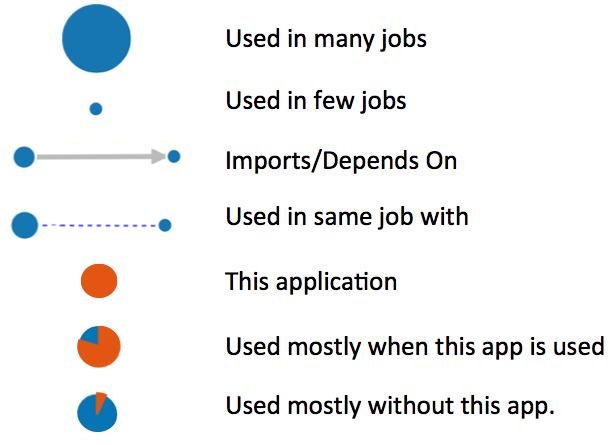
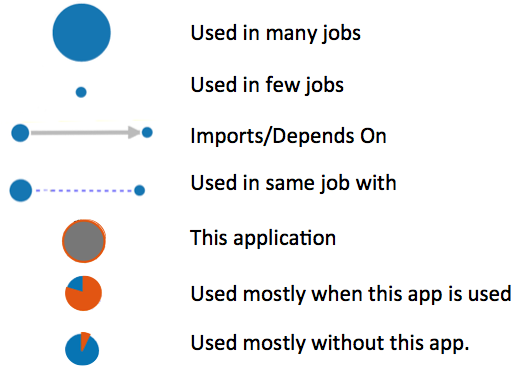
Tooltips, and marking focus node differently

diff --git a/www/SNM-web/snmweb/static/js/force-chart.js b/www/SNM-web/snmweb/static/js/force-chart.js
@@ -10,6 +10,7 @@ function vizForceChart(container, options) {
     }, options);
     var height = options.height;
     var width = options.width;
+    var focusid = "";
     var svg = d3.select("#chart svg")
         .attr("width", width)
         .attr("height", height);
@@ -69,6 +70,7 @@ function vizForceChart(container, options) {
     }
     function loadData(id) {snmapi.getStat(options.stat_id, {"id": id},
         function(result) {
+            focusid = id;
             var data = result.data,
                 node, link;
             var max_uses = 0;
@@ -144,14 +146,22 @@ function vizForceChart(container, options) {
                   d.radius = big*(Math.sqrt(d.uses)/sqrt_max_uses)+small;
                   return d.radius;
              });
-        var allPies = allGNodes.append("path")
+
+        allGNodes
+             .filter(function(d) { return d.id == focusid; })
+             .append("circle").attr("x",0).attr("y",0).attr("r",function(d) { return d.radius})
+             .classed("focusnode-color", true);
+
+        var allPies = allGNodes
+             .filter(function(d) { return d.id != focusid; })
+             .append("path")
              .attr("d", function (d) { 
                          var angle = 6.28 * d.focus_co_uses / d.uses;
                          return d3.svg.arc()
                           .outerRadius(d.radius).innerRadius(0)
                           .startAngle(0.0)
                           .endAngle(angle)(); })
-             .attr("class", "co-use-color");
+             .attr("class", function(d) { if (d.id == focusid) { return "focusnode-color"; } else { return "co-use-color"}});
 
 
         var highlightMe = allGNodes.append("circle")

diff --git a/www/SNM-web/snmweb/static/js/bar-chart.js b/www/SNM-web/snmweb/static/js/bar-chart.js
@@ -34,12 +34,15 @@ function vizBarChart(container, options) {
         .attr("class", "barsubtitle")
         .attr("id", "logicbartitle")
         .text("Packages were used with _");
+    function titleAndText(elt, content) {
+        elt.text(content).append("title").text(content);
+    }
     function setLabels(focusname) {
-        mainbartitle.text("What users used with " + focusname);
-        mainbartitle2.text("Out of " + focusnode.uses + " jobs...");
-        inbartitle.text("" + inbars.length + " packages required " + focus + ":")
-        outbartitle.text(focusname + " required " + outbars.length + " packages");
-        logicbartitle.text("User jobs also included " + logicbars.length + " others:")
+        titleAndText(mainbartitle, "What users used with " + focusname);
+        titleAndText(mainbartitle2, "Out of " + focusnode.uses + " jobs...");
+        titleAndText(inbartitle, "" + inbars.length + " packages required " + focus + ":")
+        titleAndText(outbartitle, focusname + " required " + outbars.length + " packages");
+        titleAndText(logicbartitle, "User jobs also included " + logicbars.length + " others:")
     }    
     var svginbars = svg.append("g")
     var svgoutbars = svg.append("g")
@@ -199,6 +202,7 @@ function vizBarChart(container, options) {
             var only = "";
             if (d["count"] < focusnode["uses"]/2) { only = " only"; }
             return(
+                  d["node"]["name"] + ": " + d["count"] + " jobs\n" +
                   "In " + (Math.floor(d["count"]*100/focusnode["uses"])) + "% of the jobs where "
                    + focusnode["name"] + " was run, "
                    + d["node"]["name"] + " was also run "

diff --git a/www/SNM-web/snmweb/static/css/force-chart.css b/www/SNM-web/snmweb/static/css/force-chart.css
@@ -18,6 +18,11 @@
 .default-color {
   fill: #1F77B4;
 }
+.focusnode-color {
+  fill: #777;
+  stroke-width: 3;
+  stroke: #D50;
+}
 .co-use-color {
   fill: #D50;
   stroke: #D50;
